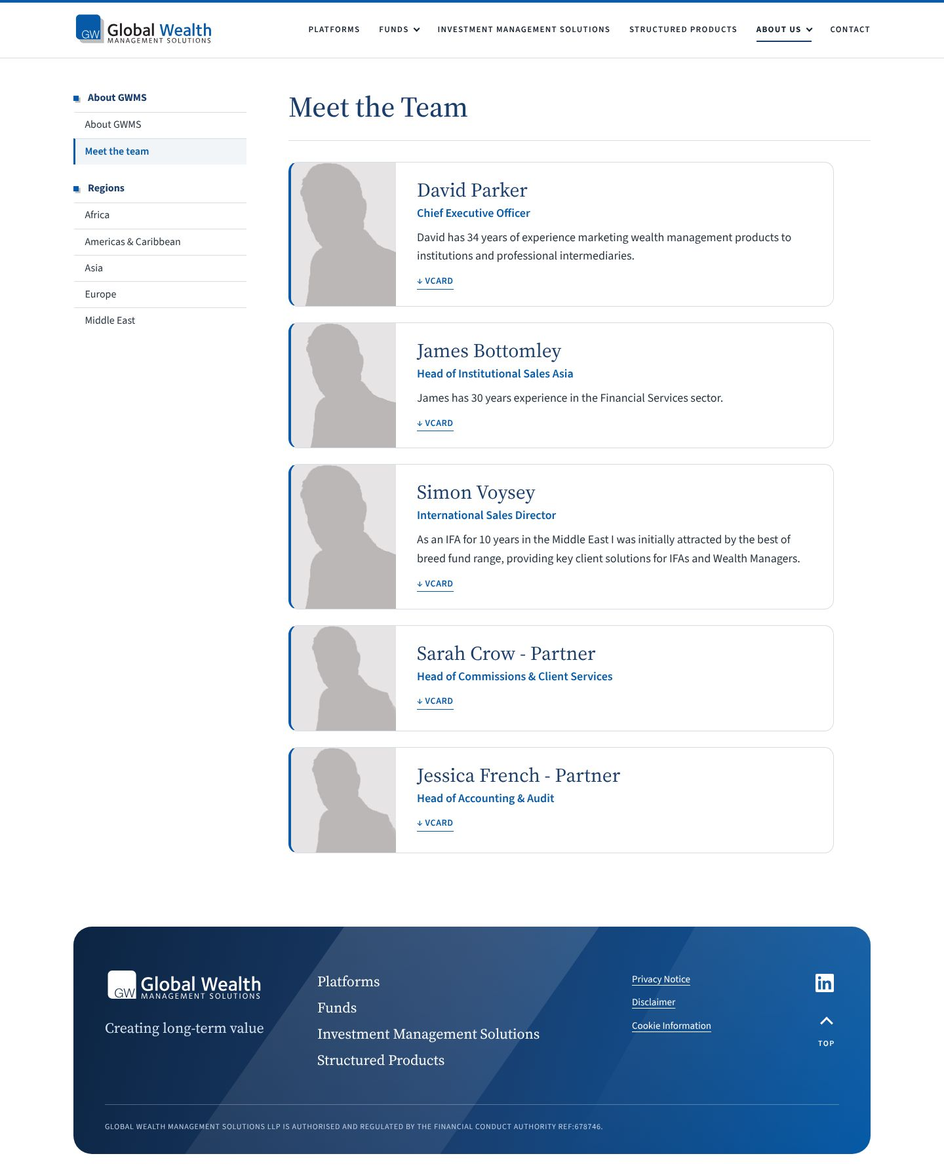
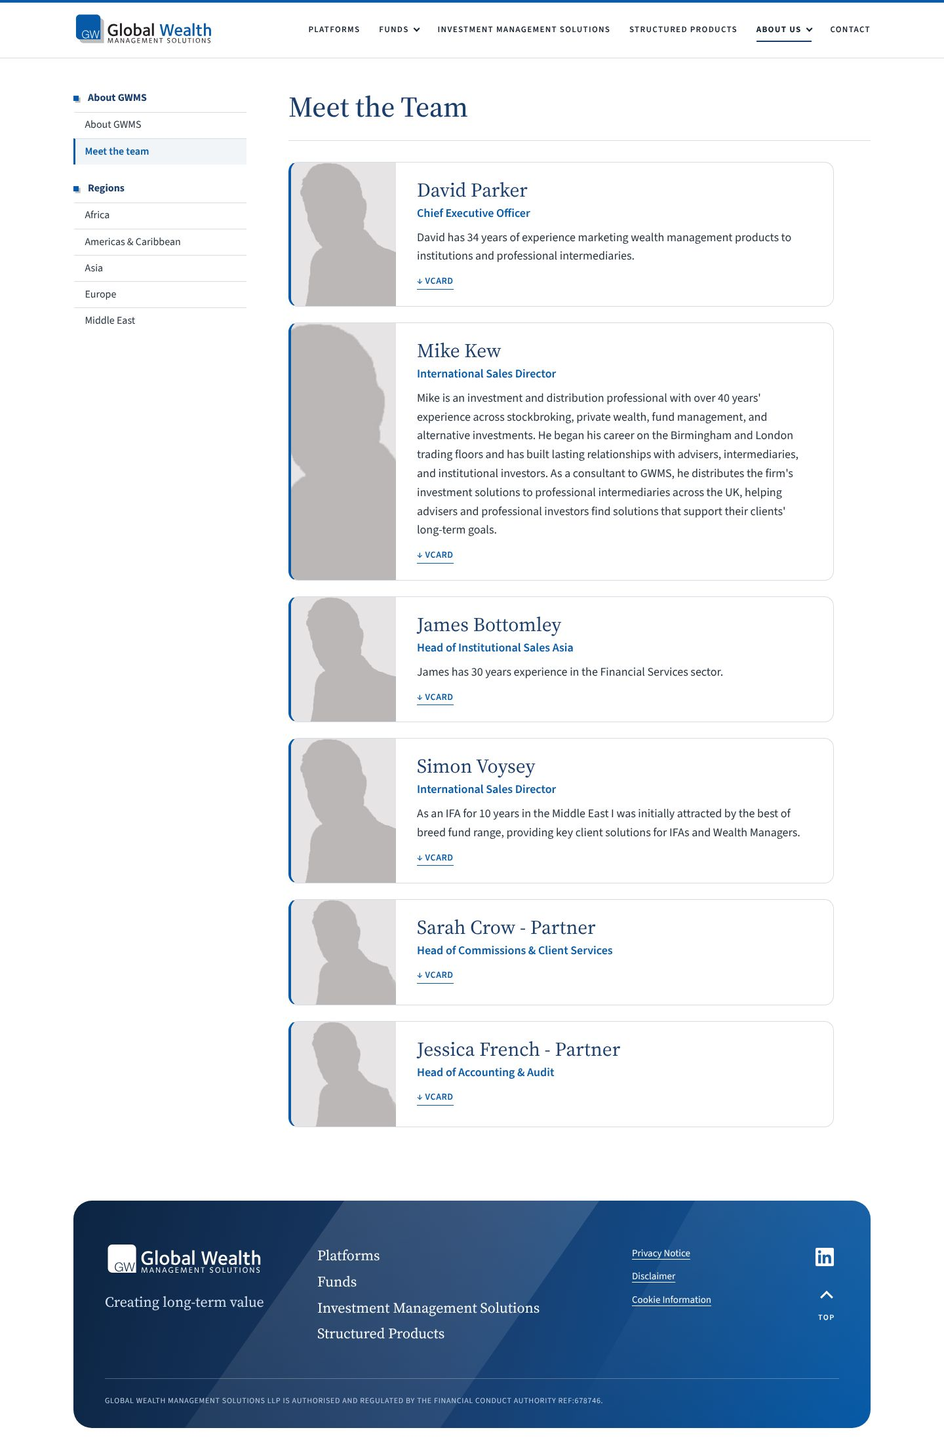
Add Mike Kew; Simon Voysey title; update team contact numbers
Claude-Session: https://claude.ai/code/session_01Vdz9cEpY9e2nZicQTN6XQm

diff --git a/dist/team-mike-kew.html b/dist/team-mike-kew.html
@@ -1,0 +1,182 @@
+<!doctype html>
+<html lang="en-GB" class="no-js">
+<head>
+<meta charset="utf-8">
+<meta name="viewport" content="width=device-width, initial-scale=1">
+<title>Mike Kew</title>
+<meta name="description" content="Global investors deserve better - now you can provide it">
+<link rel="canonical" href="https://globalwms.com/team-mike-kew.html">
+
+<link rel="icon" type="image/png" sizes="32x32" href="img/gw-icon.png">
+<link rel="stylesheet" href="css/tokens.css">
+<link rel="stylesheet" href="css/base.css">
+<link rel="stylesheet" href="css/components.css">
+<script src="js/init.js"></script>
+<link rel="stylesheet" href="css/concept.css">
+<link rel="stylesheet" href="css/notice.css">
+</head>
+<body id="top">
+<a class="skip-link" href="#main">Skip to main content</a>
+<header class="site-header">
+  <div class="site-header__bar container">
+    <a class="brand" href="index.html"><img src="img/logo-gwms.svg" width="376" height="89" alt="Global Wealth Management Solutions — home"></a>
+    <button type="button" class="nav-toggle" aria-expanded="false" aria-controls="site-nav"><span>Menu</span><span class="nav-toggle__icon" aria-hidden="true"></span></button>
+    <nav id="site-nav" class="site-nav" aria-label="Main">
+      <ul class="site-nav__list">
+        <li class="site-nav__item site-nav__item--home"><a class="site-nav__link" href="index.html">Home</a></li>
+        <li class="site-nav__item"><a class="site-nav__link" href="platforms.html">Platforms</a></li>
+        <li class="site-nav__item">
+  <button type="button" class="site-nav__link" id="funds-btn" aria-expanded="false" aria-controls="funds">Funds<span class="chev" aria-hidden="true"></span></button>
+<div class="mega" id="funds" role="group" aria-labelledby="funds-btn">
+  <div class="mega__inner">
+    <p class="mega__title" aria-hidden="true"><span class="motif"></span>Funds</p>
+    <div class="mega__groups">
+<div class="mega__group">
+  <p class="mega__label" id="funds-g0"><span class="motif" aria-hidden="true"></span>Multi Asset</p>
+  <ul class="mega__list" aria-labelledby="funds-g0">
+<li><a href="1oak-multi-asset-funds-guided-by-blackrock.html">1OAK Multi Asset (MA80) Fund (Growth)</a></li>
+<li><a href="epic-investment-partners.html">EPIC Wealth Fund (Balanced)</a></li>
+  </ul>
+</div>
+<div class="mega__group">
+  <p class="mega__label" id="funds-g1"><span class="motif" aria-hidden="true"></span>Equities</p>
+  <ul class="mega__list" aria-labelledby="funds-g1">
+<li><a href="ask-capital-india-entrepreneur-fund.html">ASK Indian Entrepreneur Fund</a></li>
+<li><a href="pecora-chatrier-equity-value.html">Pecora Chatrier Equity (Value)</a></li>
+  </ul>
+</div>
+<div class="mega__group">
+  <p class="mega__label" id="funds-g2"><span class="motif" aria-hidden="true"></span>Fixed Interest</p>
+  <ul class="mega__list" aria-labelledby="funds-g2">
+<li><a href="pecora-manning-napier-high-yield-bond-strategy.html">Pecora Manning &amp; Napier High Yield Bond Strategy</a></li>
+  </ul>
+</div>
+<div class="mega__group">
+  <p class="mega__label" id="funds-g3"><span class="motif" aria-hidden="true"></span>Alternative Strategies</p>
+  <ul class="mega__list" aria-labelledby="funds-g3">
+<li><a href="levendi-thornbridge-defined-return-fund.html">Levendi Thornbridge Defined Return Fund</a></li>
+<li><a href="pecora-qms.html">Pecora QMS</a></li>
+  </ul>
+</div>
+    </div>
+  </div>
+</div>
+</li>
+        <li class="site-nav__item"><a class="site-nav__link" href="investment-management-solutions.html">Investment Management Solutions</a></li>
+        <li class="site-nav__item"><a class="site-nav__link" href="structured-products.html">Structured Products</a></li>
+        <li class="site-nav__item">
+  <button type="button" class="site-nav__link" id="about-btn" aria-expanded="false" aria-controls="about" data-section="current">About us<span class="chev" aria-hidden="true"></span></button>
+<div class="mega" id="about" role="group" aria-labelledby="about-btn">
+  <div class="mega__inner">
+    <p class="mega__title" aria-hidden="true"><span class="motif"></span>About us</p>
+    <div class="mega__groups">
+<div class="mega__group">
+  <p class="mega__label" id="about-g0"><span class="motif" aria-hidden="true"></span>About GWMS</p>
+  <ul class="mega__list" aria-labelledby="about-g0">
+<li><a href="about-gwms.html">About GWMS</a></li>
+<li><a href="meet-the-team.html">Meet the team</a></li>
+  </ul>
+</div>
+<div class="mega__group">
+  <p class="mega__label" id="about-g1"><span class="motif" aria-hidden="true"></span>Regions</p>
+  <ul class="mega__list" aria-labelledby="about-g1">
+<li><a href="africa.html">Africa</a></li>
+<li><a href="americas-caribbean.html">Americas &amp; Caribbean</a></li>
+<li><a href="asia.html">Asia</a></li>
+<li><a href="europe.html">Europe</a></li>
+<li><a href="middle-east.html">Middle East</a></li>
+  </ul>
+</div>
+    </div>
+  </div>
+</div>
+</li>
+        <li class="site-nav__item"><a class="site-nav__link" href="contact.html">Contact</a></li>
+      </ul>
+    </nav>
+  </div>
+</header>
+<main id="main">
+<div class="container page">
+  <div class="page__layout">
+<nav class="side-nav" aria-label="About us">
+<p class="side-nav__label"><span class="motif" aria-hidden="true"></span>About GWMS</p>
+<ul>
+<li><a href="about-gwms.html">About GWMS</a></li>
+<li><a href="meet-the-team.html" aria-current="page">Meet the team</a></li>
+</ul>
+<p class="side-nav__label"><span class="motif" aria-hidden="true"></span>Regions</p>
+<ul>
+<li><a href="africa.html">Africa</a></li>
+<li><a href="americas-caribbean.html">Americas &amp; Caribbean</a></li>
+<li><a href="asia.html">Asia</a></li>
+<li><a href="europe.html">Europe</a></li>
+<li><a href="middle-east.html">Middle East</a></li>
+</ul>
+</nav>
+    <article>
+      <header class="page-header">
+        <h1>Mike Kew</h1>
+        <img class="page-header__photo" src="img/team/duffprofile.jpg" width="337" height="337" alt="">
+      </header>
+      <div class="prose">
+<p class="member__role">International Sales Director</p>
+<p>Mike is an investment and distribution professional with over 40 years' experience across stockbroking, private wealth, fund management, and alternative investments. He began his career on the Birmingham and London trading floors and has built lasting relationships with advisers, intermediaries, and institutional investors. As a consultant to GWMS, he distributes the firm's investment solutions to professional intermediaries across the UK, helping advisers and professional investors find solutions that support their clients' long-term goals.</p>
+<p><strong>Download Mike's contact details as a vcard:</strong></p>
+<div class="bizcard"><ul><li class="bizcard__name">Mike Kew</li><li class="bizcard__job">International Sales Director</li><li class="bizcard__detail"><span class="bizcard__key">e:</span> [email address to be confirmed]</li><li class="bizcard__detail"><span class="bizcard__key">m:</span> [mobile number to be confirmed]</li><li class="bizcard__detail">w: www.globalwms.com</li></ul><a class="member__vcard" href="vcards/mike-kew.vcf" download>vCard<span class="sr-only"> for Mike Kew</span></a></div>
+      </div>
+    </article>
+  </div>
+</div>
+</main>
+<footer class="site-footer site-footer--wide on-dark">
+  <div class="frame">
+    <div class="footer-panel gradient">
+      <div class="footer-top">
+        <div class="footer-brand"><a class="footer-logo" href="index.html"><img src="img/logo-gwms-white.svg" width="2362" height="495" alt="Global Wealth Management Solutions — home"></a>
+          <p class="footer-strap">Creating long-term value</p></div>
+        <nav class="footer-nav" aria-label="Footer">
+          <ul>
+            <li><a href="platforms.html">Platforms</a></li>
+            <li><a href="funds.html">Funds</a></li>
+            <li><a href="investment-management-solutions.html">Investment Management Solutions</a></li>
+            <li><a href="structured-products.html">Structured Products</a></li>
+          </ul>
+        </nav>
+        <ul class="footer-legal" aria-label="Legal">
+          <li><a href="privacy-notice.html">Privacy Notice</a></li>
+          <li><a href="disclaimer.html">Disclaimer</a></li>
+          <li><a href="cookie-information.html">Cookie Information</a></li>
+        </ul>
+        <div class="footer-side">
+        <a class="footer-social" href="https://www.linkedin.com/company/gwms/" target="_blank" rel="noopener" aria-label="LinkedIn (opens in a new tab)">
+          <svg viewBox="0 0 24 24" width="28" height="28" aria-hidden="true" focusable="false"><path fill="currentColor" d="M20.447 20.452h-3.554v-5.569c0-1.328-.027-3.037-1.852-3.037-1.853 0-2.136 1.445-2.136 2.939v5.667H9.351V9h3.414v1.561h.046c.477-.9 1.637-1.85 3.37-1.85 3.601 0 4.267 2.37 4.267 5.455v6.286zM5.337 7.433a2.063 2.063 0 1 1 0-4.126 2.063 2.063 0 0 1 0 4.126zM7.119 20.452H3.555V9h3.564v11.452zM22.225 0H1.771C.792 0 0 .774 0 1.729v20.542C0 23.227.792 24 1.771 24h20.451C23.2 24 24 23.227 24 22.271V1.729C24 .774 23.2 0 22.222 0z"/></svg>
+        </a>
+        <a class="to-top" href="#top"><span class="to-top__tile" aria-hidden="true"></span><span class="to-top__label">Top<span class="sr-only"> of page</span></span></a>
+        </div>
+      </div>
+      <div class="footer-small">
+        <p class="footer-reg">GLOBAL WEALTH MANAGEMENT SOLUTIONS LLP IS AUTHORISED AND REGULATED BY THE FINANCIAL CONDUCT AUTHORITY REF:678746.</p>
+      </div>
+    </div>
+  </div>
+</footer>
+<script src="js/nav.js" defer></script>
+<script src="js/header-hide.js" defer></script>
+
+<dialog class="notice" id="entry-notice" aria-labelledby="notice-title">
+  <div class="notice__body">
+    <h2 id="notice-title">Notice</h2>
+    <p>Global Wealth Management Solutions deals exclusively with Intermediaries.</p>
+    <p>It does not provide advice to Private Clients or the Public in general; therefore in the event of any part or all of the website being accessed by or coming into the hands of Private Clients or the Public in general, none of its content should be construed as explicit or implicit advice of any kind.</p>
+    <h3>Cookie Statement</h3>
+    <p>Please note that this site uses cookies for the essential running of the website. Please make sure to read the cookie statement to find out how globalwms.com uses cookies.</p>
+    <div class="notice__actions">
+      <button type="button" class="notice__accept" data-notice-accept autofocus>ACCEPT</button>
+      <a class="notice__decline" href="https://google.com">DECLINE</a>
+    </div>
+  </div>
+</dialog>
+<script src="js/notice.js" defer></script>
+</body>
+</html>

diff --git a/dist/team-david-parker.html b/dist/team-david-parker.html
@@ -125,7 +125,7 @@
 <p>He started his career in the City with Norwich Union in 1986 before holding a senior position globally with Royal International IOM from 1994.</p>
 <p>David formed Global Wealth Management Solutions in 2003 with the objective to build a highly professional distribution company with Global reach offering only best of breed products.</p>
 <p><strong>Download David's contact details as a vcard:</strong></p>
-<div class="bizcard"><ul><li class="bizcard__name">David Parker</li><li class="bizcard__job">Chief Executive Officer</li><li class="bizcard__detail"><span class="bizcard__key">e:</span> <span class="mail" data-user="david.parker" data-domain="globalwms.com">david.parker [at] globalwms.com</span></li><li class="bizcard__detail"><span class="bizcard__key">m:</span> +44 (0)7785 231333</li><li class="bizcard__detail"><span class="bizcard__key">t:</span> +44(0)1525 862420</li><li class="bizcard__detail">w: www.globalwms.com</li></ul><a class="member__vcard" href="vcards/david-parker.vcf" download>vCard<span class="sr-only"> for David Parker</span></a></div>
+<div class="bizcard"><ul><li class="bizcard__name">David Parker</li><li class="bizcard__job">Chief Executive Officer</li><li class="bizcard__detail"><span class="bizcard__key">e:</span> <span class="mail" data-user="david.parker" data-domain="globalwms.com">david.parker [at] globalwms.com</span></li><li class="bizcard__detail"><span class="bizcard__key">m:</span> +44 (0)7785 231333</li><li class="bizcard__detail">w: www.globalwms.com</li></ul><a class="member__vcard" href="vcards/david-parker.vcf" download>vCard<span class="sr-only"> for David Parker</span></a></div>
 <p>Alternatively view David's profile on <a href="https://www.linkedin.com/in/david-parker-80459413" rel="noopener" target="_blank">LinkedIn</a>.</p>
       </div>
     </article>

diff --git a/dist/team-simon-voysey.html b/dist/team-simon-voysey.html
@@ -124,7 +124,7 @@
 <p>As an IFA for 10 years in the Middle East I was initially attracted by the best of breed fund range, providing key client solutions for IFAs and Wealth Managers.</p>
 <p> I have greatly enjoyed building relationships with both Trustees and Advisers, and having worked through the implementation of RDR in the UK, we are well placed to assist in an ever changing regulatory world.</p>
 <p>Download Simon's Vcard:</p>
-<div class="bizcard"><ul><li class="bizcard__name">Simon Voysey</li><li class="bizcard__job">Partner</li><li class="bizcard__detail"><span class="bizcard__key">e:</span> <span class="mail" data-user="Simon.Voysey" data-domain="globalwms.com">Simon.Voysey [at] globalwms.com</span></li><li class="bizcard__detail"><span class="bizcard__key">m:</span> +44 (07833) 674188</li><li class="bizcard__detail"><span class="bizcard__key">t:</span> +44 (0) 1525 863774</li><li class="bizcard__detail">w: www.globalwms.com</li></ul><a class="member__vcard" href="vcards/simon-voysey.vcf" download>vCard<span class="sr-only"> for Simon Voysey</span></a></div>
+<div class="bizcard"><ul><li class="bizcard__name">Simon Voysey</li><li class="bizcard__job">International Sales Director</li><li class="bizcard__detail"><span class="bizcard__key">e:</span> <span class="mail" data-user="Simon.Voysey" data-domain="globalwms.com">Simon.Voysey [at] globalwms.com</span></li><li class="bizcard__detail"><span class="bizcard__key">m:</span> +44 (07833) 674188</li><li class="bizcard__detail">w: www.globalwms.com</li></ul><a class="member__vcard" href="vcards/simon-voysey.vcf" download>vCard<span class="sr-only"> for Simon Voysey</span></a></div>
       </div>
     </article>
   </div>

diff --git a/tools/content/team-david-parker.html b/tools/content/team-david-parker.html
@@ -3,5 +3,5 @@
 <p>He started his career in the City with Norwich Union in 1986 before holding a senior position globally with Royal International IOM from 1994.</p>
 <p>David formed Global Wealth Management Solutions in 2003 with the objective to build a highly professional distribution company with Global reach offering only best of breed products.</p>
 <p><strong>Download David's contact details as a vcard:</strong></p>
-<div class="bizcard"><ul><li class="bizcard__name">David Parker</li><li class="bizcard__job">Chief Executive Officer</li><li class="bizcard__detail"><span class="bizcard__key">e:</span> <span class="mail" data-user="david.parker" data-domain="globalwms.com">david.parker [at] globalwms.com</span></li><li class="bizcard__detail"><span class="bizcard__key">m:</span> +44 (0)7785 231333</li><li class="bizcard__detail"><span class="bizcard__key">t:</span> +44(0)1525 862420</li><li class="bizcard__detail">w: www.globalwms.com</li></ul></div>
+<div class="bizcard"><ul><li class="bizcard__name">David Parker</li><li class="bizcard__job">Chief Executive Officer</li><li class="bizcard__detail"><span class="bizcard__key">e:</span> <span class="mail" data-user="david.parker" data-domain="globalwms.com">david.parker [at] globalwms.com</span></li><li class="bizcard__detail"><span class="bizcard__key">m:</span> +44 (0)7785 231333</li><li class="bizcard__detail">w: www.globalwms.com</li></ul></div>
 <p>Alternatively view David's profile on <a href="https://www.linkedin.com/in/david-parker-80459413" rel="noopener" target="_blank">LinkedIn</a>.</p>

diff --git a/dist/meet-the-team.html b/dist/meet-the-team.html
@@ -129,6 +129,15 @@
 <li class="member">
   <img class="member__photo" src="img/team/duffprofile.jpg" width="337" height="337" alt="" loading="lazy">
   <div class="member__text">
+    <h2 class="member__name"><a href="team-mike-kew.html">Mike Kew</a></h2>
+    <p class="member__role">International Sales Director</p>
+    <p class="member__bio">Mike is an investment and distribution professional with over 40 years' experience across stockbroking, private wealth, fund management, and alternative investments. He began his career on the Birmingham and London trading floors and has built lasting relationships with advisers, intermediaries, and institutional investors. As a consultant to GWMS, he distributes the firm's investment solutions to professional intermediaries across the UK, helping advisers and professional investors find solutions that support their clients' long-term goals.</p>
+    <a class="member__vcard" href="vcards/mike-kew.vcf" download>vCard<span class="sr-only"> for Mike Kew</span></a>
+  </div>
+</li>
+<li class="member">
+  <img class="member__photo" src="img/team/duffprofile.jpg" width="337" height="337" alt="" loading="lazy">
+  <div class="member__text">
     <h2 class="member__name"><a href="team-james-bottomley.html">James Bottomley</a></h2>
     <p class="member__role">Head of Institutional Sales Asia</p>
     <p class="member__bio">James has 30 years experience in the Financial Services sector.</p>

diff --git a/tools/content/team-simon-voysey.html b/tools/content/team-simon-voysey.html
@@ -2,4 +2,4 @@
 <p>As an IFA for 10 years in the Middle East I was initially attracted by the best of breed fund range, providing key client solutions for IFAs and Wealth Managers.</p>
 <p> I have greatly enjoyed building relationships with both Trustees and Advisers, and having worked through the implementation of RDR in the UK, we are well placed to assist in an ever changing regulatory world.</p>
 <p>Download Simon's Vcard:</p>
-<div class="bizcard"><ul><li class="bizcard__name">Simon Voysey</li><li class="bizcard__job">Partner</li><li class="bizcard__detail"><span class="bizcard__key">e:</span> <span class="mail" data-user="Simon.Voysey" data-domain="globalwms.com">Simon.Voysey [at] globalwms.com</span></li><li class="bizcard__detail"><span class="bizcard__key">m:</span> +44 (07833) 674188</li><li class="bizcard__detail"><span class="bizcard__key">t:</span> +44 (0) 1525 863774</li><li class="bizcard__detail">w: www.globalwms.com</li></ul></div>
+<div class="bizcard"><ul><li class="bizcard__name">Simon Voysey</li><li class="bizcard__job">International Sales Director</li><li class="bizcard__detail"><span class="bizcard__key">e:</span> <span class="mail" data-user="Simon.Voysey" data-domain="globalwms.com">Simon.Voysey [at] globalwms.com</span></li><li class="bizcard__detail"><span class="bizcard__key">m:</span> +44 (07833) 674188</li><li class="bizcard__detail">w: www.globalwms.com</li></ul></div>

diff --git a/dist/team-jessica-french.html b/dist/team-jessica-french.html
@@ -122,7 +122,7 @@
       <div class="prose">
 <p class="member__role">Head of Accounting & Audit</p>
 <p><strong>Download Jessica French's contact details as a vcard:</strong></p>
-<div class="bizcard"><ul><li class="bizcard__name">Jessica French</li><li class="bizcard__detail"><span class="bizcard__key">e:</span> <span class="mail" data-user="Jessica.French" data-domain="globalwms.com">Jessica.French [at] globalwms.com</span></li><li class="bizcard__detail"><span class="bizcard__key">m:</span> +44 (01525) 863780</li><li class="bizcard__detail">w: www.globalwms.com</li></ul><a class="member__vcard" href="vcards/jessica-french.vcf" download>vCard<span class="sr-only"> for Jessica French</span></a></div>
+<div class="bizcard"><ul><li class="bizcard__name">Jessica French</li><li class="bizcard__detail"><span class="bizcard__key">e:</span> <span class="mail" data-user="Jessica.French" data-domain="globalwms.com">Jessica.French [at] globalwms.com</span></li><li class="bizcard__detail"><span class="bizcard__key">m:</span> +44(0)7788 205487</li><li class="bizcard__detail">w: www.globalwms.com</li></ul><a class="member__vcard" href="vcards/jessica-french.vcf" download>vCard<span class="sr-only"> for Jessica French</span></a></div>
       </div>
     </article>
   </div>

diff --git a/dist/team-sarah-crow.html b/dist/team-sarah-crow.html
@@ -122,7 +122,7 @@
       <div class="prose">
 <p class="member__role">Head of Commissions & Client Services</p>
 <p><strong>Download Sarah Crow's contact details as a vcard:</strong></p>
-<div class="bizcard"><ul><li class="bizcard__name">Sarah Crow</li><li class="bizcard__detail"><span class="bizcard__key">e:</span> <span class="mail" data-user="Sarah.Crow" data-domain="globalwms.com">Sarah.Crow [at] globalwms.com</span></li><li class="bizcard__detail"><span class="bizcard__key">m:</span> +44 (01525) 62420</li><li class="bizcard__detail">w: www.globalwms.com</li></ul><a class="member__vcard" href="vcards/sarah-crow.vcf" download>vCard<span class="sr-only"> for Sarah Crow</span></a></div>
+<div class="bizcard"><ul><li class="bizcard__name">Sarah Crow</li><li class="bizcard__detail"><span class="bizcard__key">e:</span> <span class="mail" data-user="Sarah.Crow" data-domain="globalwms.com">Sarah.Crow [at] globalwms.com</span></li><li class="bizcard__detail"><span class="bizcard__key">m:</span> +44(0)7876 757253</li><li class="bizcard__detail">w: www.globalwms.com</li></ul><a class="member__vcard" href="vcards/sarah-crow.vcf" download>vCard<span class="sr-only"> for Sarah Crow</span></a></div>
       </div>
     </article>
   </div>

diff --git a/tools/content/team-mike-kew.html b/tools/content/team-mike-kew.html
@@ -1,0 +1,4 @@
+<p class="member__role">International Sales Director</p>
+<p>Mike is an investment and distribution professional with over 40 years' experience across stockbroking, private wealth, fund management, and alternative investments. He began his career on the Birmingham and London trading floors and has built lasting relationships with advisers, intermediaries, and institutional investors. As a consultant to GWMS, he distributes the firm's investment solutions to professional intermediaries across the UK, helping advisers and professional investors find solutions that support their clients' long-term goals.</p>
+<p><strong>Download Mike's contact details as a vcard:</strong></p>
+<div class="bizcard"><ul><li class="bizcard__name">Mike Kew</li><li class="bizcard__job">International Sales Director</li><li class="bizcard__detail"><span class="bizcard__key">e:</span> [email address to be confirmed]</li><li class="bizcard__detail"><span class="bizcard__key">m:</span> [mobile number to be confirmed]</li><li class="bizcard__detail">w: www.globalwms.com</li></ul></div>

diff --git a/tools/content/team-jessica-french.html b/tools/content/team-jessica-french.html
@@ -1,3 +1,3 @@
 <p class="member__role">Head of Accounting & Audit</p>
 <p><strong>Download Jessica French's contact details as a vcard:</strong></p>
-<div class="bizcard"><ul><li class="bizcard__name">Jessica French</li><li class="bizcard__detail"><span class="bizcard__key">e:</span> <span class="mail" data-user="Jessica.French" data-domain="globalwms.com">Jessica.French [at] globalwms.com</span></li><li class="bizcard__detail"><span class="bizcard__key">m:</span> +44 (01525) 863780</li><li class="bizcard__detail">w: www.globalwms.com</li></ul></div>
+<div class="bizcard"><ul><li class="bizcard__name">Jessica French</li><li class="bizcard__detail"><span class="bizcard__key">e:</span> <span class="mail" data-user="Jessica.French" data-domain="globalwms.com">Jessica.French [at] globalwms.com</span></li><li class="bizcard__detail"><span class="bizcard__key">m:</span> +44(0)7788 205487</li><li class="bizcard__detail">w: www.globalwms.com</li></ul></div>

diff --git a/tools/content/team-sarah-crow.html b/tools/content/team-sarah-crow.html
@@ -1,3 +1,3 @@
 <p class="member__role">Head of Commissions & Client Services</p>
 <p><strong>Download Sarah Crow's contact details as a vcard:</strong></p>
-<div class="bizcard"><ul><li class="bizcard__name">Sarah Crow</li><li class="bizcard__detail"><span class="bizcard__key">e:</span> <span class="mail" data-user="Sarah.Crow" data-domain="globalwms.com">Sarah.Crow [at] globalwms.com</span></li><li class="bizcard__detail"><span class="bizcard__key">m:</span> +44 (01525) 62420</li><li class="bizcard__detail">w: www.globalwms.com</li></ul></div>
+<div class="bizcard"><ul><li class="bizcard__name">Sarah Crow</li><li class="bizcard__detail"><span class="bizcard__key">e:</span> <span class="mail" data-user="Sarah.Crow" data-domain="globalwms.com">Sarah.Crow [at] globalwms.com</span></li><li class="bizcard__detail"><span class="bizcard__key">m:</span> +44(0)7876 757253</li><li class="bizcard__detail">w: www.globalwms.com</li></ul></div>

diff --git a/tools/extract_bodies.py b/tools/extract_bodies.py
@@ -111,6 +111,16 @@ MEMBERS = {"david-parker": "25-david-parker", "james-bottomley": "61-james-botto
            "sarah-crow": "32-sarah-crow-partner", "jessica-french": "34-jessica-french"}
 
 
+# Owner-requested edits to the captured member pages (applied after extraction so a re-run keeps them).
+MEMBER_EDITS = {
+    "david-parker": [('<li class="bizcard__detail"><span class="bizcard__key">t:</span> +44(0)1525 862420</li>', "")],
+    "simon-voysey": [('<li class="bizcard__job">Partner</li>', '<li class="bizcard__job">International Sales Director</li>'),
+                     ('<li class="bizcard__detail"><span class="bizcard__key">t:</span> +44 (0) 1525 863774</li>', "")],
+    "sarah-crow": [("+44 (01525) 62420", "+44(0)7876 757253")],
+    "jessica-french": [("+44 (01525) 863780", "+44(0)7788 205487")],
+}
+
+
 def member(slug):
     """Individual team-member page (captured from /meet-the-team/<id>-<name>): role, biography,
     the vCard lead-in sentence, the business-card details and (David Parker) the LinkedIn sentence."""
@@ -148,7 +158,11 @@ def member(slug):
         txt = el.get_text(strip=True)
         if txt:
             out.append(str(el).replace("\xa0", " "))
-    return "\n".join(out)
+    html = "\n".join(out)
+    for old, new in MEMBER_EDITS.get(slug, []):
+        assert old in html, (slug, old)
+        html = html.replace(old, new)
+    return html
 
 
 if __name__ == "__main__":
